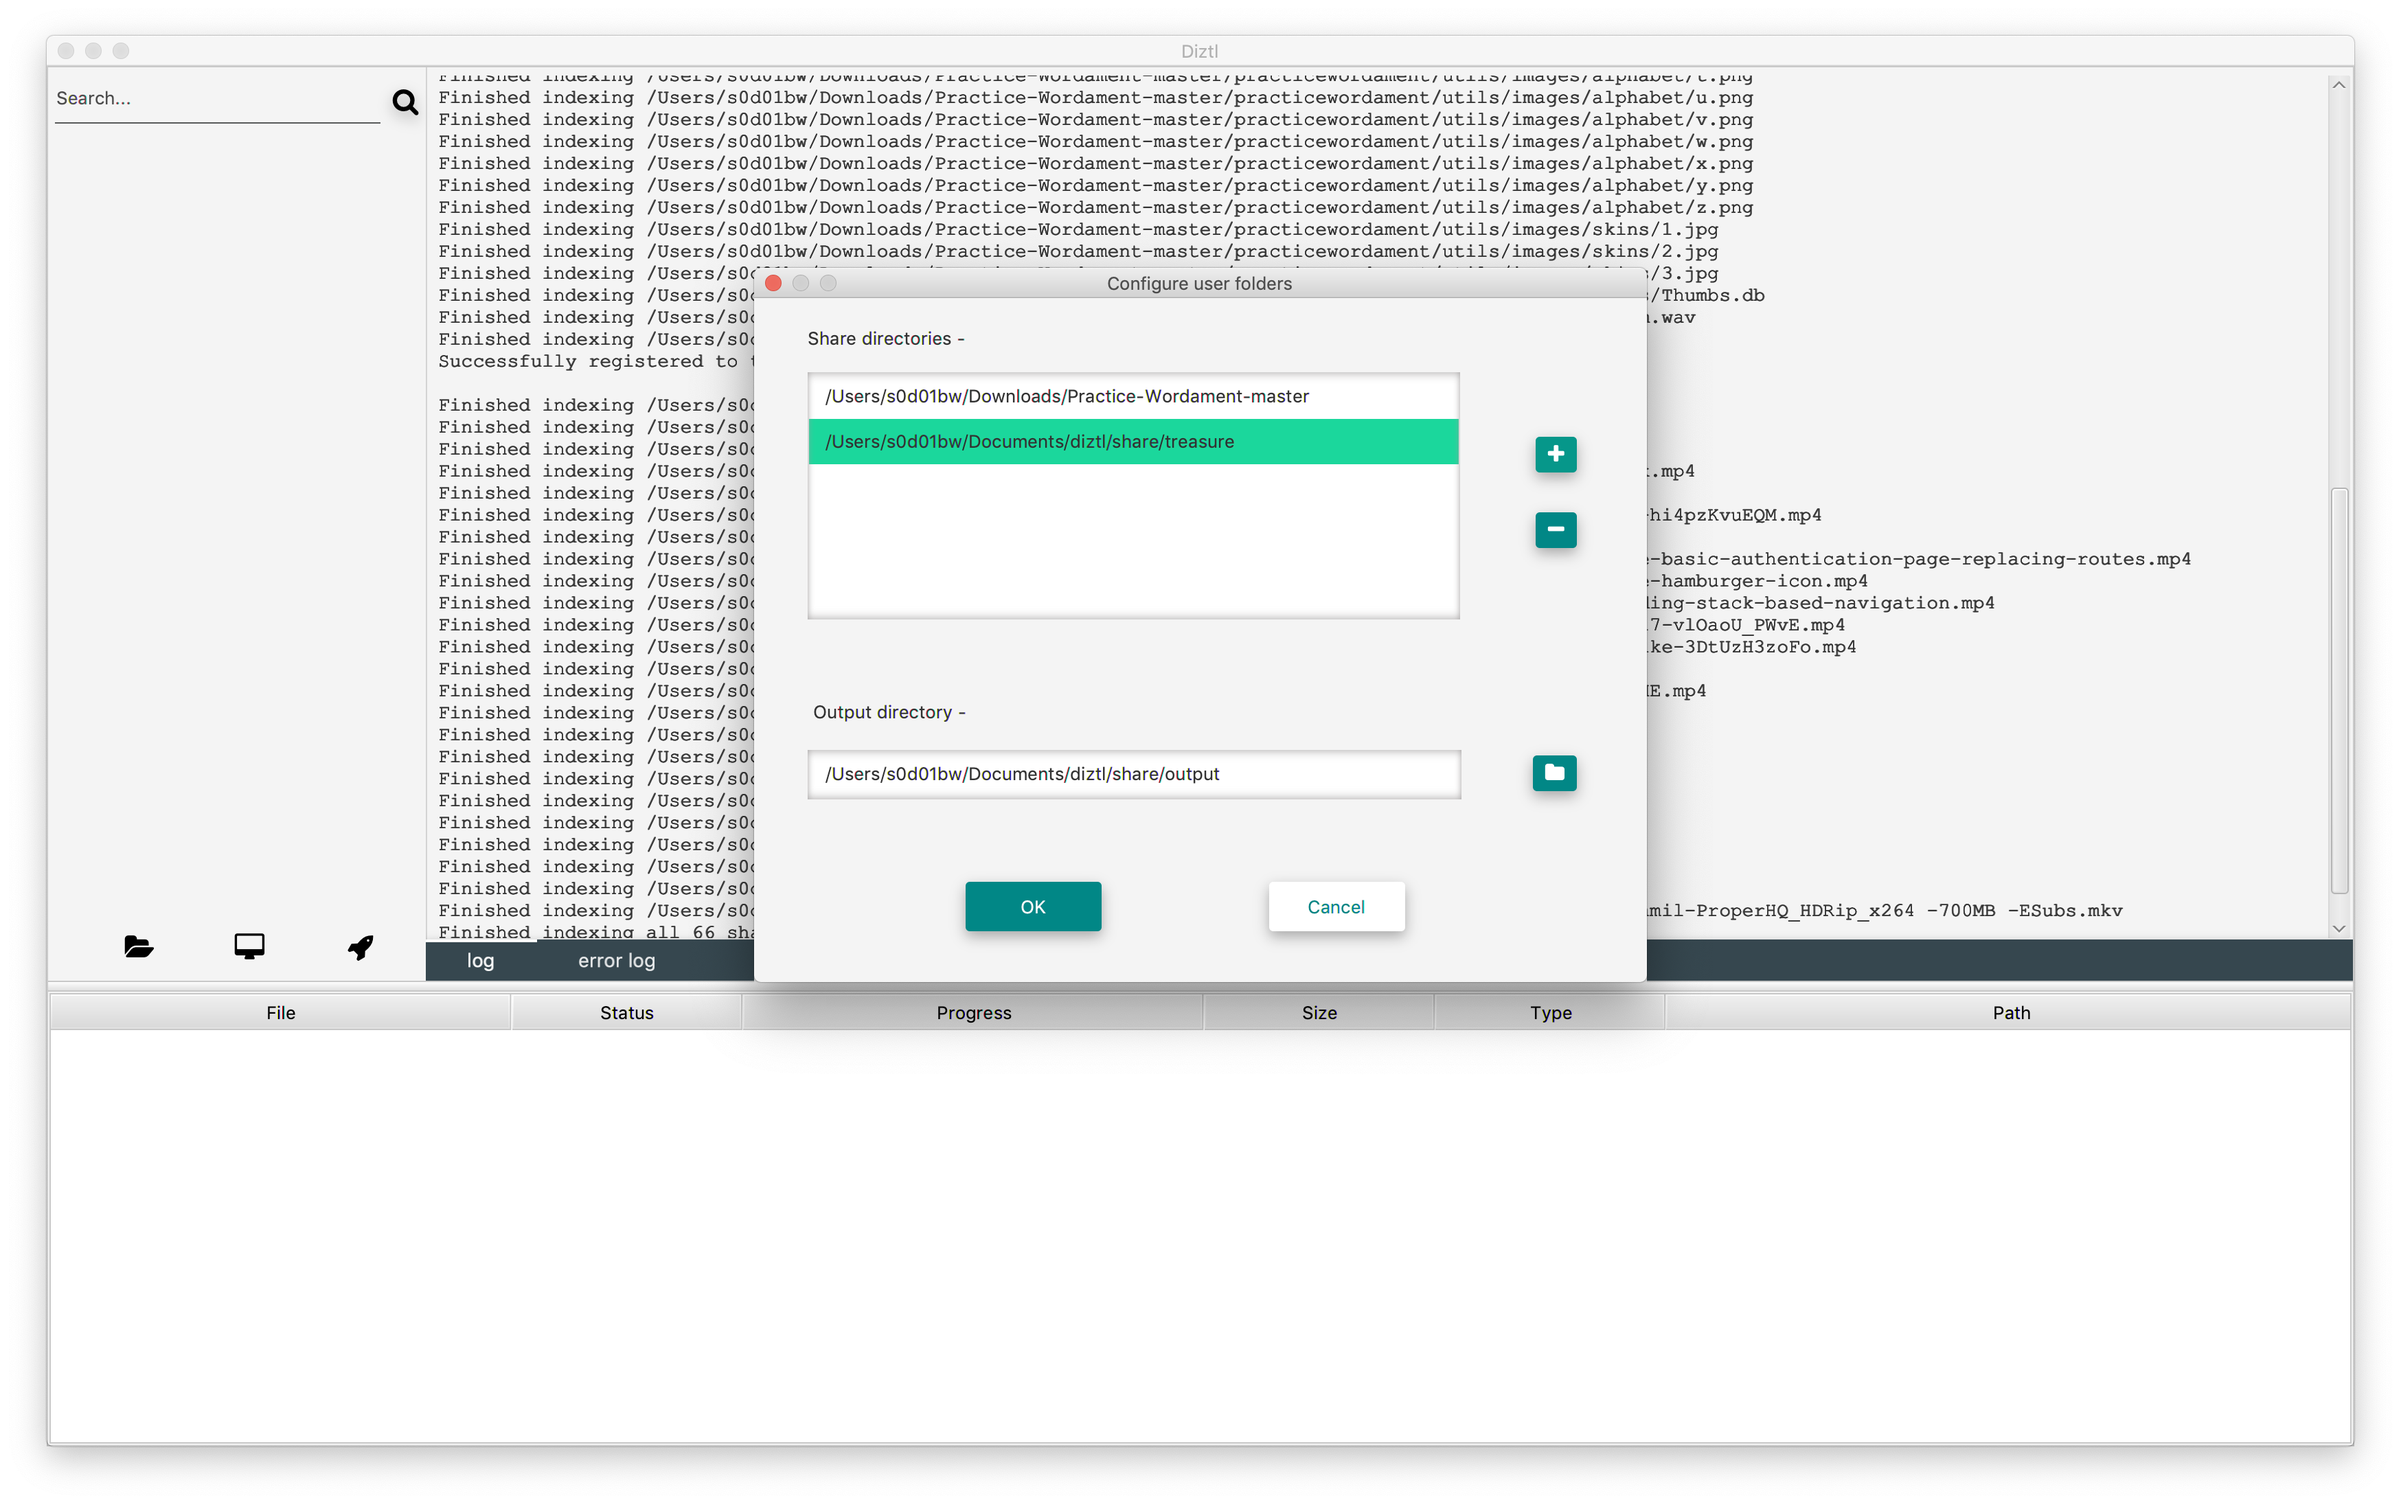
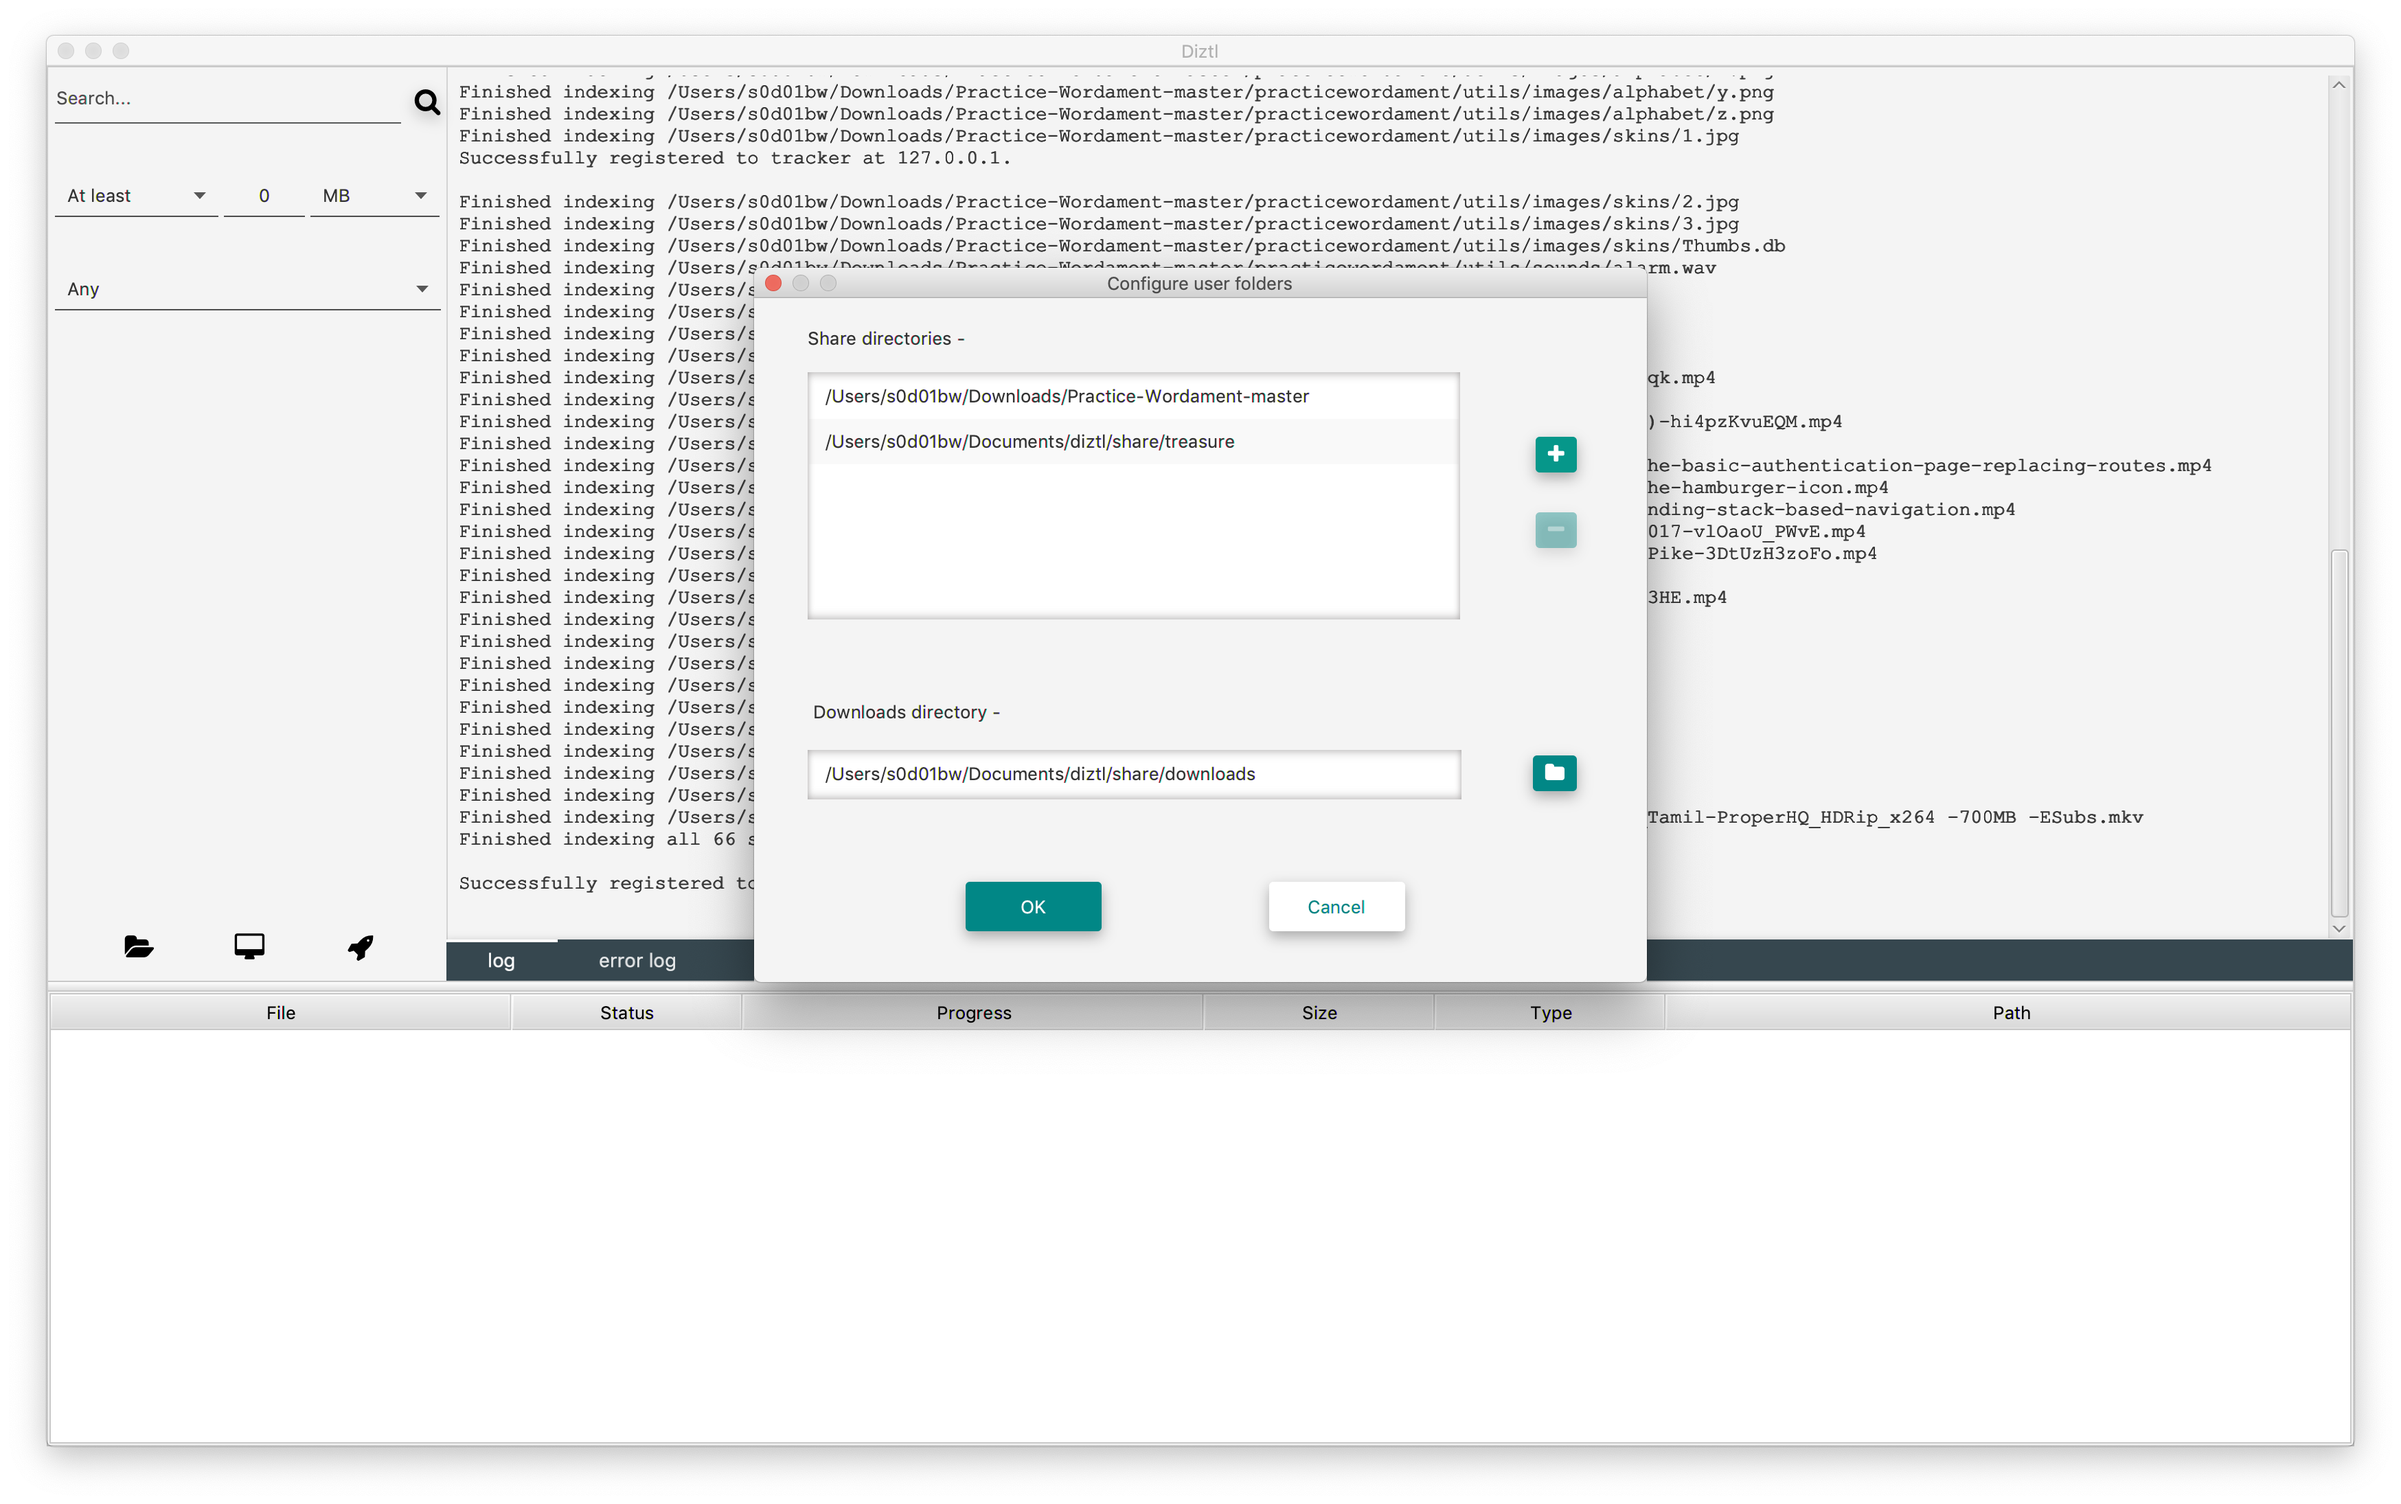
New screenshots

diff --git a/README.md b/README.md
@@ -63,6 +63,7 @@ The node UI is implemented in Java using JavaFX which communicates with the node
 ![Configure user folders](static/screenshots/configure_user_folders.png)
 ![File search](static/screenshots/file_search.png)
 ![Downloading files](static/screenshots/download.png)
+![Options](static/screenshots/options.png)
 ![Exit](static/screenshots/exit.png)
 
 ## Contributing
@@ -73,7 +74,7 @@ Please read CONTRIBUTING.md for details on our code of conduct, and the process 
 
 
 ## License
-This project is licensed under the MIT License - see the LICENSE.md file for details
+MIT
 
 ---
 
